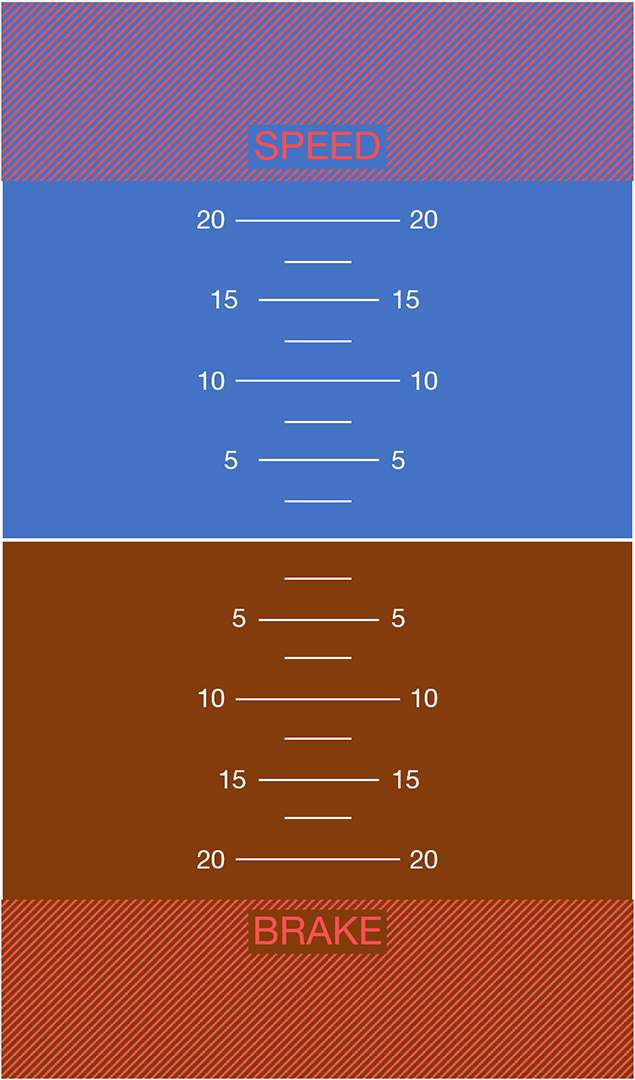
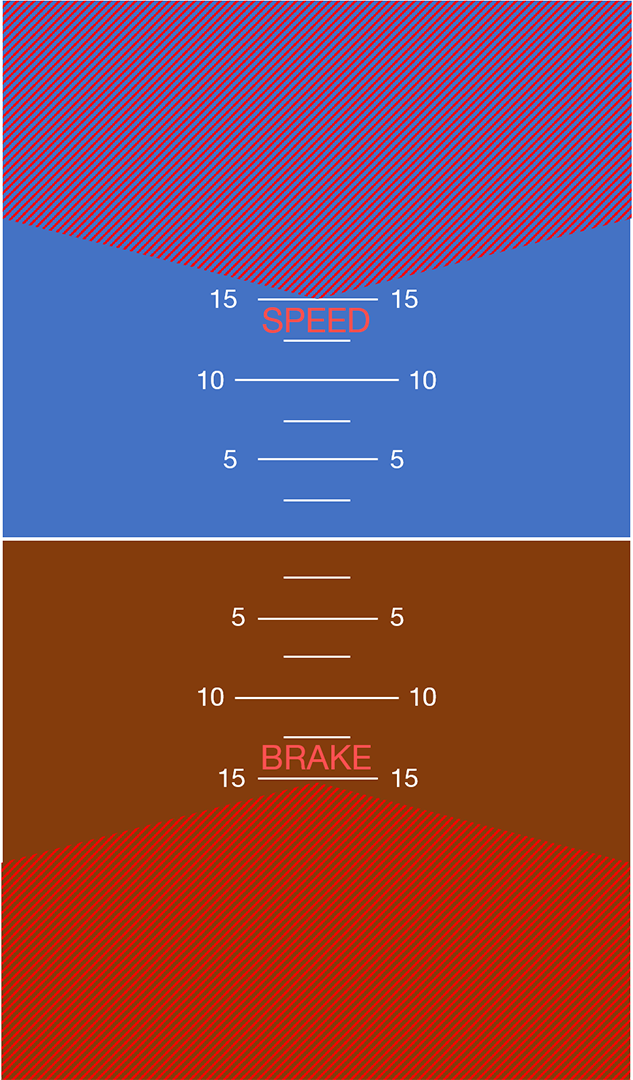
Optimize speed trend

diff --git a/dashboard.js b/dashboard.js
@@ -1,5 +1,32 @@
 // @ts-ignore
+class DualBuffer{
+    constructor(size){
+        this.arr = new Array(size);
+        this.arr.fill(0, 0, size - 1);
+        this.timestamp = new Array(size);
+        const initTime = Date.now();
+        this.timestamp.fill(initTime, 0, size - 1);
+    }
+    add(item){
+        this.arr.shift();
+        this.arr.push(item);
+        this.timestamp.shift();
+        this.timestamp.push(Date.now());
+    }
+    getDiff(){
+        let arr = this.arr
+        return arr[arr.length - 1] - arr[0];
+    }
+    getFirstTime(){
+        let timestamp = this.timestamp
+        return timestamp[0];
+    }
+}
+
 let historySpd = 0;
+let historyTime = 0;
+const buffer = new DualBuffer(20);
+
 Funbit.Ets.Telemetry.Dashboard.prototype.initialize = function (skinConfig, utils) {
     //
     // skinConfig - a copy of the skin configuration from config.json
@@ -73,8 +100,10 @@ Funbit.Ets.Telemetry.Dashboard.prototype.filter = function (data, utils) {
         data.fob = Math.round(data.truck.fuel);
         data.fuelCapacity = Math.round(data.truck.fuelCapacity);
         //TODO: fix data streaming issue
-        data.fuelConsump = utils.formatFloat(data.truck.fuelAverageConsumption*100, 2)
-        data.fuelRange = utils.formatFloat(data.truck.fuel / data.truck.fuelAverageConsumption, 2)
+        if (data.truck.fuelAverageConsumption !== 0) {
+            data.fuelConsump = utils.formatFloat(data.truck.fuelAverageConsumption*100, 2)
+            data.fuelRange = utils.formatFloat(data.truck.fuel / data.truck.fuelAverageConsumption, 0)
+        }
         //if (data.fuelRange >= 10000) data.fuelRange = 9999.99;
 
         const now = new Date();
@@ -120,13 +149,28 @@ Funbit.Ets.Telemetry.Dashboard.prototype.filter = function (data, utils) {
     data.distanceDecimal = Math.floor((remainDist - distInt * 1000) / 100);
     data.speedPos = -1080 + data.truck.speed * 6.20;
     // speed trend
+    /*
     const accelVct = data.truck.acceleration;
     const accel = Math.sqrt(accelVct.x ** 2 + accelVct.y ** 2 + accelVct.z ** 2);
     let spdTrendDelta = accel * 10;// speed trend after 10 sec
     if (data.truck.speed <= historySpd - 0.01) spdTrendDelta = -spdTrendDelta;
+     */
+
+    // new speed trend
+    buffer.add(historySpd)
+    const accel = buffer.getDiff() / (Date.now() - buffer.getFirstTime()) * 1000
+    console.log(buffer.getDiff(), Date.now() - buffer.getFirstTime())
+    const spdTrendDelta = accel * 3;
     data.ledCount = Math.max(Math.min(Math.round(spdTrendDelta / 2.5), 11), -19);
-    if (Math.abs(data.ledCount) < 2) data.ledCount = 0;
+
+    /*
+    const accel = (data.truck.speed - historySpd) / (Date.now() - historyTime) * 1000
+    const spdTrendDelta = accel * 3;
+    data.ledCount = Math.max(Math.min(Math.round(spdTrendDelta / 2.5), 11), -19);
+    */
+    //if (Math.abs(data.ledCount) < 1) data.ledCount = 0;
     historySpd = data.truck.speed;
+    historyTime = Date.now()
 
     data.altPos = -1080 + data.truck.placement.y * 3.2;
 

diff --git a/dashboard.css b/dashboard.css
@@ -451,7 +451,7 @@ body {
             background-position: 50% 50%;
             background-repeat: no-repeat;
 
-            transition: background-position 250ms linear;
+            transition: background-position 500ms linear;
         }
     }
 
